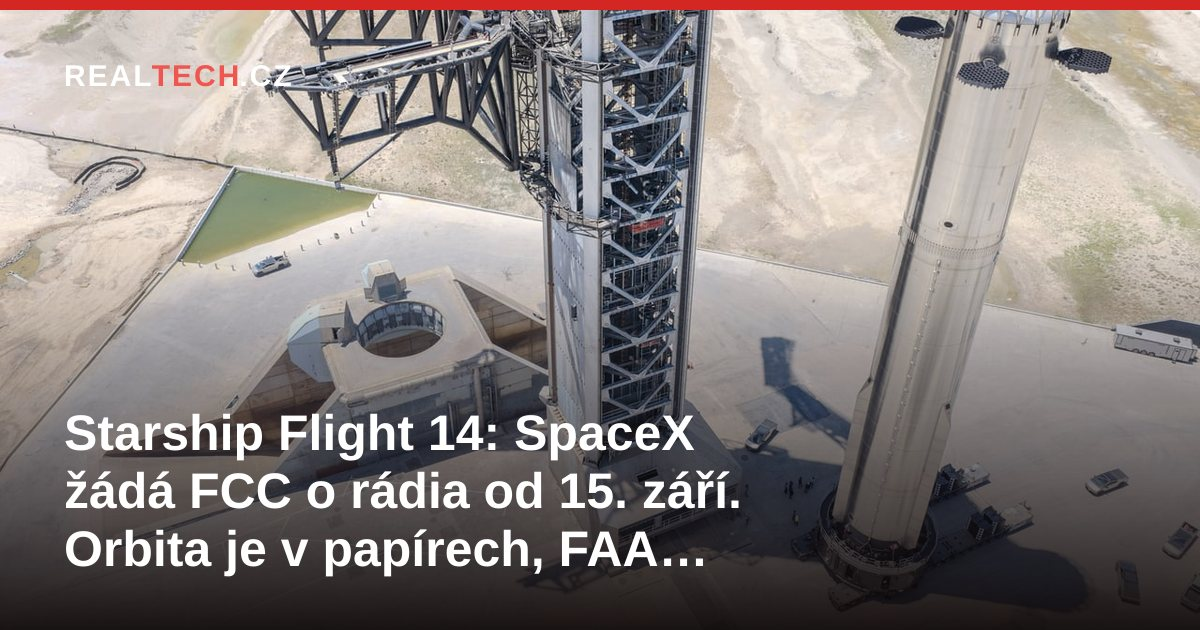
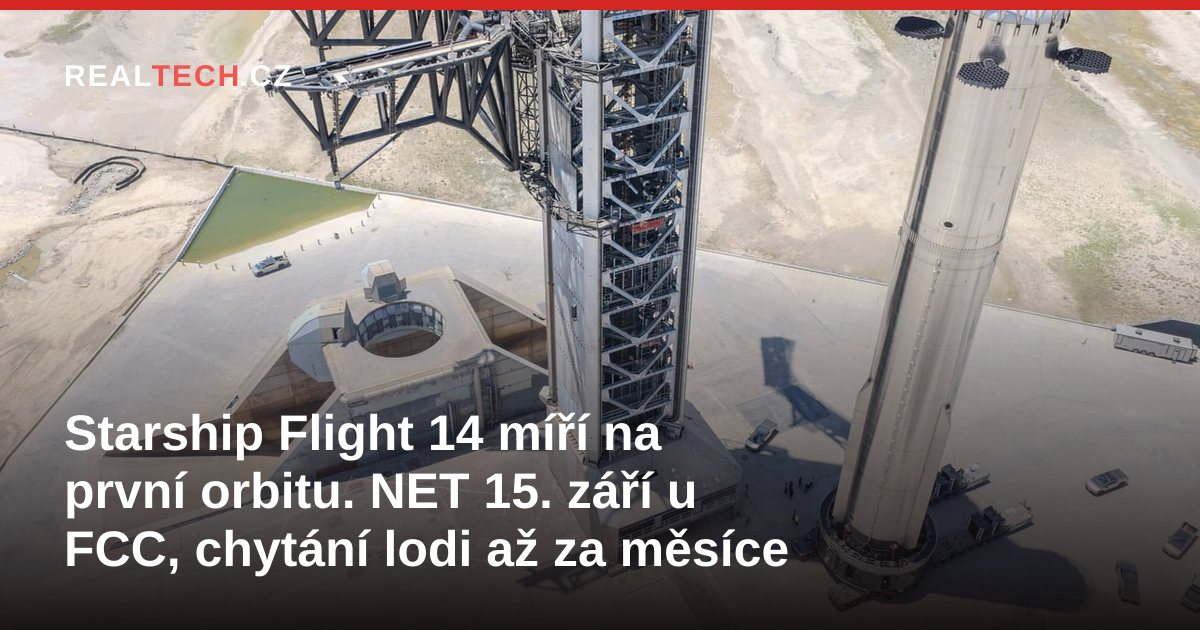
Flight 14 první orbita: primární STA z FCC (F13/F14/F15), COMPASS/CADENA NET, FAA docket, nový titulek

Changed region(s): [[0.0308, 0.6333, 0.6167, 0.8143], [0.0617, 0.8444, 0.6783, 0.9349]]

diff --git a/src/content/clanky/starship-flight-14-prvni-orbita.md b/src/content/clanky/starship-flight-14-prvni-orbita.md
@@ -1,5 +1,5 @@
 ---
-title: "Starship Flight 14: SpaceX žádá FCC o rádia od 15. září. Orbita je v papírech, FAA ještě ne"
+title: "Starship Flight 14 míří na první orbitu. NET 15. září u FCC, chytání lodi až za měsíce"
 description: "Žádosti SpaceX u FCC pro čtrnáctý let Starship počítají s orbitálním druhým stupněm a s oknem od 15. září 2026. Je to povolení pro vysílačky, ne pro start. Licenci k letu drží FAA a ta ji zatím nezveřejnila."
 category: "Vesmír"
 date: "2026-09-06T10:40:00+02:00"
@@ -9,31 +9,41 @@ xPosts:
   - "https://x.com/SpaceX/status/2090482050562146364"
 ---
 
-SpaceX požádal americkou Federální komunikační komisi FCC o povolení pro rádia na Starship při Flight 14. Žádost počítá s orbitálním druhým stupněm a s provozním oknem od 15. září 2026. Tak to popisují weby, které dokument přetiskly. Je to úřední stopa toho, že čtrnáctý let má poprvé skončit na skutečné oběžné dráze a nést satelity Starlink V3 do provozu. Datum startu to není.
+SpaceX požádal americkou Federální komunikační komisi FCC o povolení pro rádia na Starship při Flight 14. Žádost počítá s orbitálním druhým stupněm a s provozním oknem od 15. září 2026. Stejné datum se objevuje v plánovacích podkladech pro řízení letového provozu a v žádosti o povolení pro satelity Starlink V3. Je to úřední stopa toho, že čtrnáctý let má poprvé skončit na skutečné oběžné dráze a nést satelity Starlink V3 do provozu. Datum startu to není. Loď se navíc tentokrát chytat nebude.
 
 ## Co je v žádostech u FCC
 
-Podle serveru TeslaNorth, který text žádosti citoval 1. září, jde o experimentální STA, tedy Special Temporary Authority. Podepsala ji 21. srpna 2026 Kristi Key, specialistka SpaceX na regulaci startů. Firma v ní žádá o záložní frekvence 2228,5 a 2234,5 MHz pro loď, která "startuje ze Starbase v Texasu", a dodává, že žádost "zahrnuje orbitální druhý stupeň". Data o trajektorii mají jít úřadu NTIA, americkému letectvu a NASA. Jako licenční úřad pro start je v dokumentu uvedený FAA Office of Commercial Space Transportation. Požadované období běží od 15. září 2026 do 15. března 2027.
+V databázi experimentálních povolení FCC jsme dohledali dvě žádosti k Flight 14. Obě podepsala Kristi Key, specialistka SpaceX na regulaci startů.
 
-Druhý dokument popsal 2. září Tesla Oracle. SpaceX ho podal 31. srpna a týká se samotných satelitů Starlink, ne rakety. Firma v něm žádá o dočasné povolení na 60 dní pro pásmo 42,0 až 42,5 GHz ve směru z vesmíru na Zemi. Tesla Oracle z textu cituje větu, že SpaceX žádá o udělení "do 15. září 2026, což je plánované datum vysazení nových vysokokapacitních satelitů".
+První je z 10. srpna 2026. Žádá o další frekvence v pásmu 2200 až 2290 MHz pro "suborbitální booster Starship Flight 14" a jako začátek provozu uvádí 28. srpna 2026. To byl původní termín, o kterém Elon Musk mluvil na začátku srpna. Nevyšel.
 
-Obě žádosti jsme chtěli ověřit přímo v databázi FCC. Vyhledávání na apps.fcc.gov nám při psaní tohoto textu vracelo chybu serveru, takže citujeme z reportů, které dokumenty přetiskly. Formulace "orbitální druhý stupeň" přitom u FCC není úplně nová. SpaceX ji použil už v žádosti pro Flight 13, který pak letěl po zkušební dráze a satelity shořely. Nové je to, že filings i reporting teď u Flight 14 shodně mluví o setrvání na dráze a o satelitech, které mají zůstat v síti.
+Druhá je z 21. srpna 2026. Žádá o záložní frekvence 2228,5 a 2234,5 MHz pro komunikaci s lodí při Flight 14 "startujícím ze Starbase v Texasu" a dodává, že žádost "zahrnuje orbitální druhý stupeň". Data o trajektorii mají jít úřadu NTIA, americkému letectvu a NASA. Jako licenční úřad pro start je uvedený FAA Office of Commercial Space Transportation. Požadované období běží od 15. září 2026 do 15. března 2027.
+
+Třetí dokument se týká samotných satelitů, ne rakety. Podle serveru Tesla Oracle ho SpaceX podal 31. srpna a žádá v něm o dočasné povolení na 60 dní pro pásmo 42,0 až 42,5 GHz ve směru z vesmíru na Zemi. Tesla Oracle z textu cituje větu, že SpaceX žádá o udělení "do 15. září 2026, což je plánované datum vysazení nových vysokokapacitních satelitů". Tenhle dokument jsme v primární podobě neotevřeli, citujeme ho z reportu.
+
+## "Orbitální druhý stupeň" není novinka
+
+Formulace o orbitálním druhém stupni sama o sobě první orbitu nedokazuje. SpaceX ji u FCC používá jako šablonu. Žádost pro Flight 13 z 3. dubna 2026 říká doslova, že "zahrnuje suborbitální booster prvního stupně a orbitální druhý stupeň", a dodává, že oba stupně "se buď vrátí na místo startu, nebo přistanou na vodě". Flight 13 pak letěl po zkušební dráze a jeho satelity shořely.
+
+Stejná věta je i v žádosti pro Flight 15, kterou Kristi Key podepsala 20. srpna 2026 s požadovaným oknem od 28. září 2026. Půlroční okna a shodné formulace ukazují, že FCC papíry jsou rezervace frekvencí, ne letový plán.
+
+Co u Flight 14 vybočuje, je kombinace. Žádost o rádia pro loď, žádost o povolení pro satelity s "plánovaným datem vysazení" a výroky Muska o provozní dráze míří stejným směrem. Proto píšeme o záměru první orbity. Ne proto, že by to jedna věta v šabloně FCC potvrzovala.
 
 ## STA je povolení pro vysílačky, ne pro start
 
-STA od FCC znamená jen to, že firma smí v daném období na daných frekvencích vysílat. Neříká nic o tom, jestli raketa smí vzlétnout. To rozhoduje FAA, která vydává licenci ke startu i k návratu. Sama žádost u FCC to připouští tím, že FAA uvádí jako licenční úřad.
+STA, Special Temporary Authority, znamená jen to, že firma smí v daném období na daných frekvencích vysílat. Neříká nic o tom, jestli raketa smí vzlétnout. To rozhoduje FAA, která vydává licenci ke startu i k návratu. Sama žádost u FCC to připouští tím, že FAA uvádí jako licenční úřad.
 
-Z toho plyne i čtení data 15. září. V žádosti o rádia je to začátek požadovaného okna, které trvá půl roku. V žádosti o satelity je to "plánované datum vysazení". Ani jedno není T-0. SpaceX sám žádný termín Flight 14 nezveřejnil, stránku letu na svém webu nemá a v příspěvcích na X mluví jen o přípravě. Správné čtení je NET, nejdříve 15. září, pokud všechno ostatní vyjde.
+Z toho plyne i čtení data 15. září. V žádosti o rádia je to začátek půlročního okna. V žádosti o satelity je to "plánované datum vysazení". Podle NASASpaceflight a TechTimes se 15. září objevuje i v týdenních přehledech letového provozu COMPASS/CADENA jako NET, tedy nejdřívější možný termín pro koordinaci vzdušného prostoru. Ještě v srpnu tam stálo 28. srpna. Ani jedno není T-0. SpaceX sám žádný termín Flight 14 nezveřejnil, stránku letu na svém webu nemá a v příspěvcích na X mluví jen o přípravě.
 
 ## FAA: hodnocení životního prostředí hotové, licence ne
 
-FAA 2. září podepsala a 4. září ve Federal Register oznámila závěrečné hodnocení vlivu na životní prostředí pro Starship. Dokument se týká záložních přistávacích oblastí v Pacifiku a další trajektorie návratu ke Starbase. FAA k němu vydala takzvané FONSI, tedy zjištění, že významný dopad nehrozí.
+FAA 2. září podepsala a 4. září ve Federal Register oznámila závěrečné hodnocení vlivu na životní prostředí pro Starship, dokument FR 2026-18135, spis FAA-2026-6968. Týká se rozšíření záložních přistávacích oblastí v Pacifiku, nové severopacifické oblasti pro trajektorii z floridského Eastern Range ke Starbase a uzavírek vzdušného prostoru pro další trajektorii návratu lodi ke Starbase. FAA k němu vydala FONSI, zjištění, že významný dopad nehrozí.
 
 Text oznámení ale výslovně říká, že SpaceX "musí získat úpravu své stávající licence provozovatele" od FAA, aby mohl nové oblasti používat. Hodnocení životního prostředí tu úpravu neprovádí, jen jí otevírá cestu. Když Tesla Oracle napsal, že FAA schválila chytání lodi při Flight 14, tiskové oddělení FAA se webu ozvalo. Podle opravy, kterou web zveřejnil, dokončení hodnocení "nezaručuje licenci ke startu".
 
-Pro Flight 14 tedy platí stav ke dni psaní: FCC řeší rádia, FAA licenci nezveřejnila. Bez ní nikdo neletí.
+Pro Flight 14 tedy platí stav ke dni psaní: FCC řeší rádia, FAA licenci ani její úpravu nezveřejnila. Bez ní nikdo neletí.
 
-## Kdo řekl orbitu
+## Kdo řekl orbitu a kdo odložil chytání
 
 O orbitálním záměru mluvil Elon Musk na prvním hovoru SpaceX s investory 4. srpna. Podle Space.com tam řekl, že další let je předběžně plánovaný na konec srpna a že firma se, "za předpokladu, že dostaneme regulační souhlas", pokusí chytit loď věží. TeslaNorth z téhož hovoru cituje záměr vynést satelity Starlink V3 na provozní dráhu místo krátkého zkušebního oblouku. Je to výrok z hovoru s investory, ne technická dokumentace letu.
 
@@ -57,16 +67,21 @@ Označení lodi SpaceX v těchto příspěvcích neuvádí. Reporty pracují s S
 
 Do startu zbývá několik věcí, které jsou veřejně dohledatelné. Licence nebo její úprava od FAA. Vlastní oznámení termínu od SpaceX, typicky stránka letu na spacex.com a příspěvek na X. Sestavení obou stupňů na rampě a zkušební tankování. Nic z toho zatím není venku.
 
-Pro čtenáře v Česku se ani po tomto letu nezmění tarif ani rychlost [Starlinku](/clanky/starlink-v-cesku-pruvodce/). Dvacet satelitů síť neposune. Změní se to, že Starship poprvé udělá to, k čemu ho SpaceX pro Starlink V3 potřebuje: dojet na dráhu a nechat tam náklad. Datum 15. září je začátek okna v žádosti o rádia. Jestli se z něj stane termín startu, řekne FAA a pak SpaceX.
+Pro čtenáře v Česku se ani po tomto letu nezmění tarif ani rychlost [Starlinku](/clanky/starlink-v-cesku-pruvodce/). Dvacet satelitů síť neposune. Změní se to, že Starship poprvé udělá to, k čemu ho SpaceX pro Starlink V3 potřebuje: dojet na dráhu a nechat tam náklad. Datum 15. září je začátek okna v žádosti o rádia a plánovací značka pro letový provoz. Jestli se z něj stane termín startu, řekne FAA a pak SpaceX.
 
 ## Zdroje
 
-- [TeslaNorth, 1. 9. 2026. SpaceX Files Starship Flight 14 for First Orbit Starting September 15](https://teslanorth.com/2026/09/01/spacex-starship-flight-14-first-orbit/)
+- [FCC OET, STA SpaceX pro Starship Flight 14, záložní frekvence lodi, podepsáno 21. 8. 2026, okno 15. 9. 2026 až 15. 3. 2027](https://apps.fcc.gov/oetcf/els/reports/STA_Print.cfm?mode=current&application_seq=153852)
+- [FCC OET, STA SpaceX pro suborbitální booster Starship Flight 14, podepsáno 10. 8. 2026, okno od 28. 8. 2026](https://apps.fcc.gov/oetcf/els/reports/STA_Print.cfm?mode=current&application_seq=153554)
+- [FCC OET, STA SpaceX pro Starship Flight 13, podepsáno 3. 4. 2026, "orbital second stage"](https://apps.fcc.gov/oetcf/els/reports/STA_Print.cfm?mode=current&application_seq=150221)
+- [FCC OET, STA SpaceX pro Starship Flight 15, podepsáno 20. 8. 2026, okno od 28. 9. 2026](https://apps.fcc.gov/oetcf/els/reports/STA_Print.cfm?mode=current&application_seq=153823)
+- [Federal Register, 4. 9. 2026, FR 2026-18135. FAA: Final Tiered EA a FONSI/ROD, SpaceX Starship](https://www.federalregister.gov/d/2026-18135)
+- [FAA. SpaceX Starship Super Heavy Project at the Boca Chica Launch Site, dokumenty Final Tiered EA a FONSI/ROD](https://www.faa.gov/space/stakeholder_engagement/spacex_starship)
 - [Tesla Oracle, 2. 9. 2026. FCC filing reveals Starship Flight 14 launch on September 15](https://www.teslaoracle.com/2026/09/02/fcc-filing-reveals-starship-flight-14-launch-on-september-15-spacex-conducts-33-engine-static-fire-on-booster-21/)
 - [Tesla Oracle, 3. 9. 2026, s opravou od FAA. Landing catch of Starship in Flight 14 gets environmental clearance from the FAA](https://www.teslaoracle.com/2026/09/03/the-faa-approves-landing-catch-of-starship-in-flight-14/)
-- [Federal Register, 4. 9. 2026. FAA: Notice of Availability, Final Tiered EA and FONSI/ROD, SpaceX Starship](https://www.federalregister.gov/documents/2026/09/04/2026-18135/notice-of-availability-on-the-final-tiered-environmental-assessment-and-finding-of-no-significant)
-- [Starpath Global, 3. 9. 2026. SpaceX FCC Filing Outlines First Full Orbital Attempt for Starship Flight 14](https://starpath.global/news/spacex-fcc-filing-outlines-first-full-orbital-attempt-for-starship-flight-14/)
+- [TeslaNorth, 1. 9. 2026. SpaceX Files Starship Flight 14 for First Orbit Starting September 15](https://teslanorth.com/2026/09/01/spacex-starship-flight-14-first-orbit/)
 - [TechTimes, 2. 9. 2026. Starship Flight 14: FCC Filing Confirms First Orbital Profile, FAA Approval Remains](https://www.techtimes.com/articles/326372/20260902/starship-flight-14-fcc-filing-confirms-first-orbital-profile-faa-approval-remains.htm)
+- [NASASpaceflight, 21. 8. 2026. Ship 41 Completes Engine Testing Ahead of Flight 14](https://www.nasaspaceflight.com/2026/08/ship-41-engine-testing-flight-14/)
 - [Space.com přes Yahoo News, 20. 8. 2026. SpaceX will try for 1st Starship tower catch 'in a few months,' Elon Musk says](https://www.yahoo.com/news/science/articles/spacex-try-1st-starship-tower-203000063.html)
 - [Elon Musk na X, 20. 8. 2026 05:10 UTC. Chytání lodi "za pár měsíců"](https://x.com/elonmusk/status/2090305535937851863)
 - [SpaceX na X, 20. 8. 2026 16:52 UTC. Jednomotorový deorbit burn](https://x.com/SpaceX/status/2090482050562146364)
